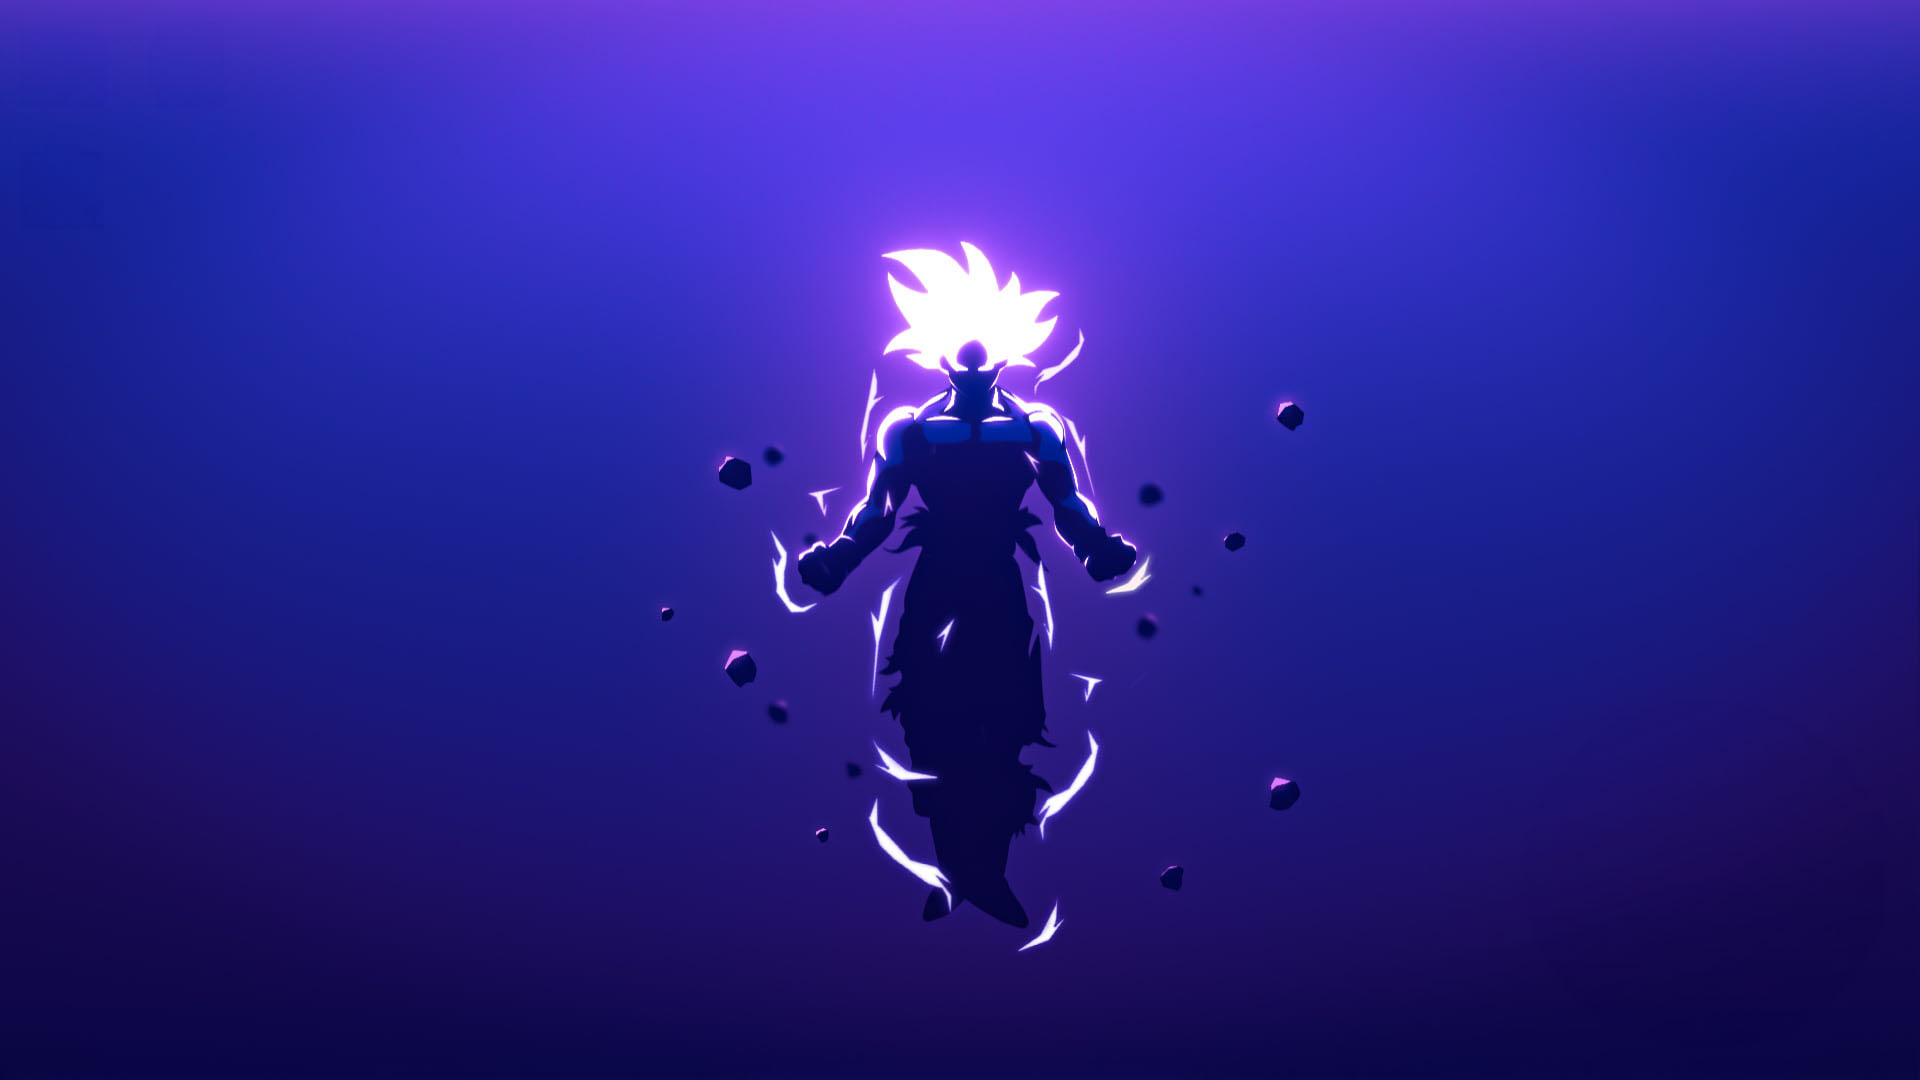
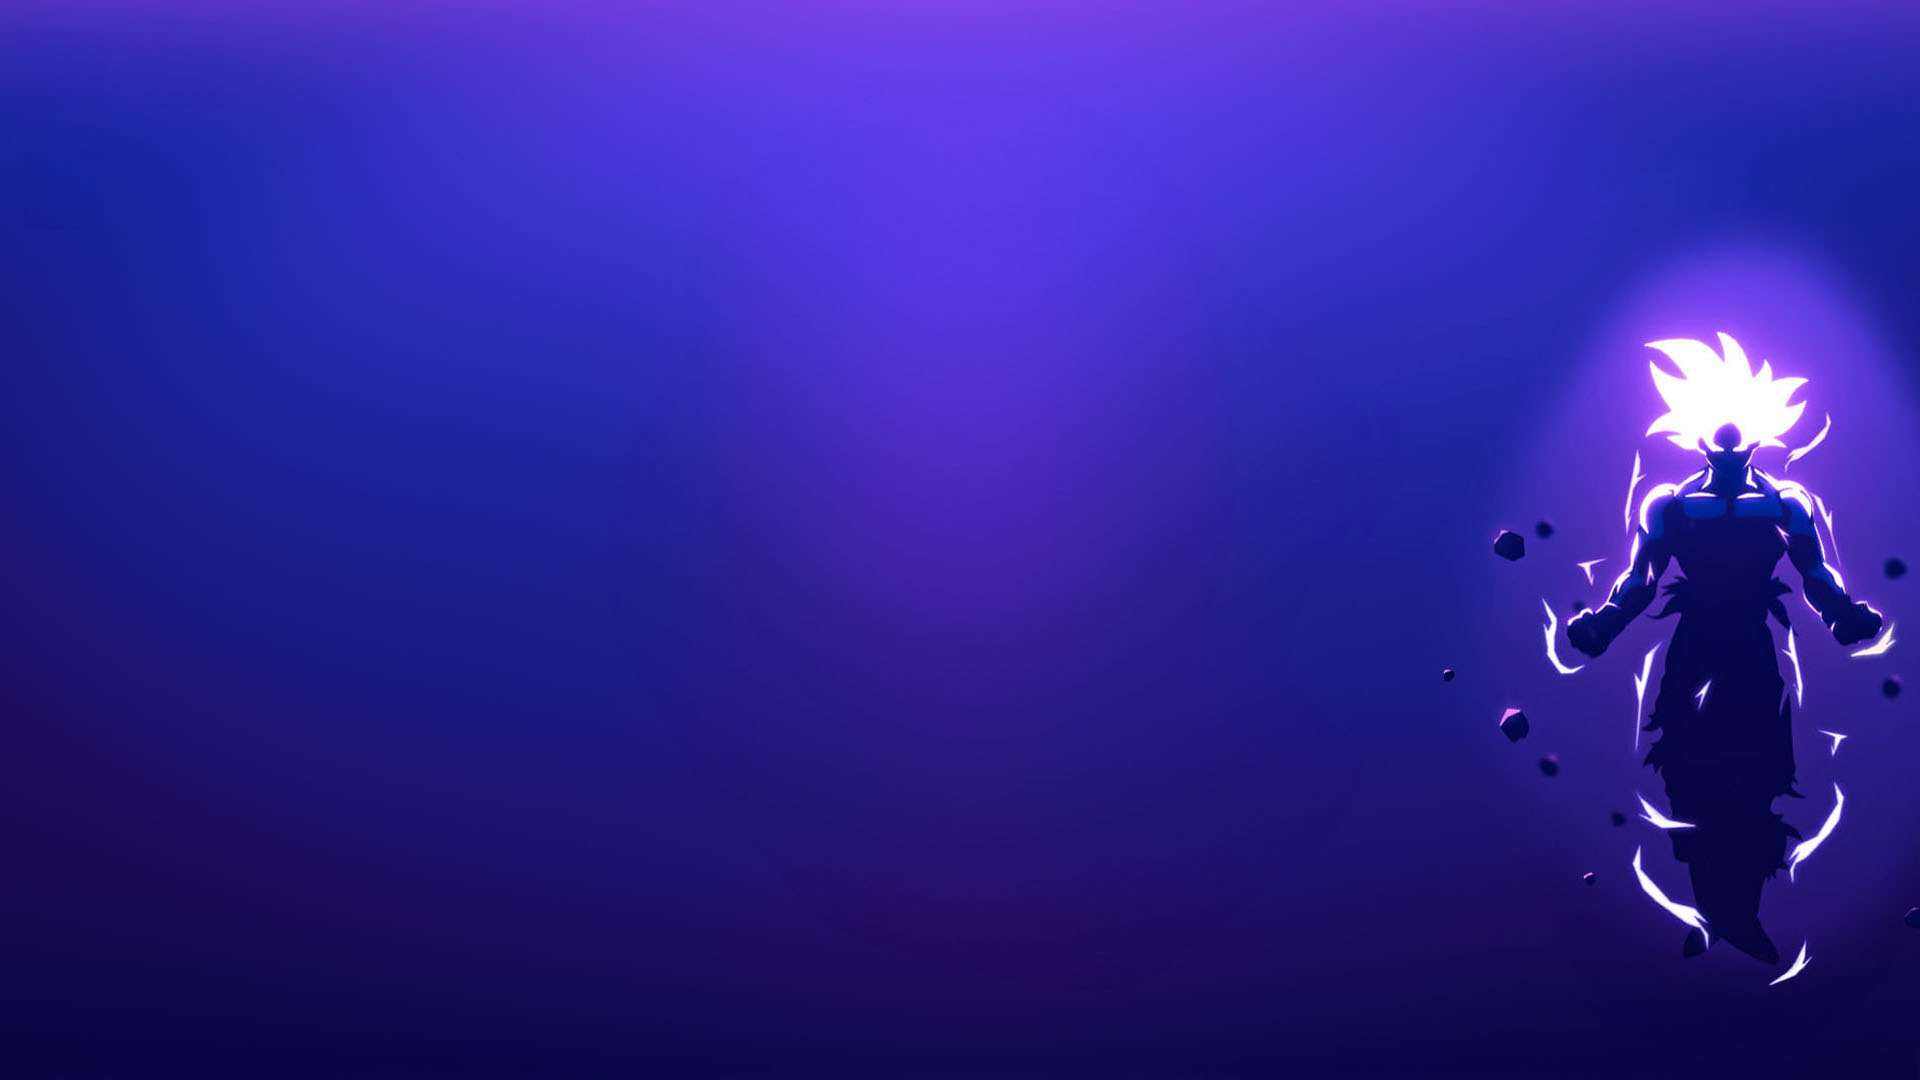
html and CSS final changes
In this commit I made minor changes to the html file and finish the coding for the CSS file

diff --git a/css/main.css b/css/main.css
@@ -1,6 +1,6 @@
-* {
+/* * {
     outline: 1px red solid;
-}
+} */
 
 .hidden {
     display: none;
@@ -16,12 +16,12 @@ body {
     font-family: "Poppins", sans-serif;
     color: white;
     font-size: 14px;
-    background-color: rgb(116, 84, 136);
+    background-color: rgba(116, 84, 136, 80%);
     background-image: url('../img/bg_dragonball.jpg');
     background-blend-mode: multiply;
     background-repeat: no-repeat;
     background-size: cover;
-    background-position: center;
+    background-position: right;
 }
 
 header {
@@ -31,17 +31,27 @@ header {
     text-align: center;
     background-image: url('../img/denim.png');
     background-blend-mode: color-dodge;
-    text-shadow: 0px 3px 5px rgba(0, 0, 0, 40%);
+    text-shadow: 0px 2px 5px rgba(0, 0, 0, 75%);
     box-shadow: 0 0 14px 0 black;
+    border-bottom: 3px solid #fff;
 }
 
 header p {
     margin: 20px 80px 36px;
+    font-family: "Poppins", sans-serif;
+    font-weight: 500;
+    font-size: 16px;
+    font-style: normal;
 }
 
 #main-logo {
     width: 380px;
-    margin: 35px auto 22px;
+    margin: 40px auto 30px;
+    animation: float 3.5s ease-out infinite;
+}
+
+@keyframes float {
+    50% {transform: translateY(8px);}
 }
 
 #listblock {
@@ -50,18 +60,71 @@ header p {
     flex-wrap: wrap;
 }
 
-#listblock section {
-    margin: 15px 10px;
+#todo {
+    margin: 35px 10px 0;
+    width: 320px;
+    background-color: rgb(209, 122, 0);
+    background-image: url('../img/denim.png');
+    background-blend-mode: color-dodge;
+    text-shadow: 0px 2px 5px rgba(0, 0, 0, 75%);
+    box-shadow: 0 0 14px 0 black;
+    border: 3px solid #fff;
+    border-radius: 10px;
 }
 
+#inprogress {
+    margin: 35px 10px 0;
+    width: 320px;
+    background-color: rgba(209, 77, 0);
+    background-image: url('../img/denim.png');
+    background-blend-mode: color-dodge;
+    text-shadow: 0px 2px 5px rgba(0, 0, 0, 75%);
+    box-shadow: 0 0 14px 0 black;
+    border: 3px solid #fff;
+    border-radius: 10px;
+}
+
+#done {
+    margin: 35px 10px 0;
+    width: 320px;
+    background-color: rgb(209, 21, 0);
+    background-image: url('../img/denim.png');
+    background-blend-mode: color-dodge;
+    text-shadow: 0px 2px 5px rgba(0, 0, 0, 75%);
+    box-shadow: 0 0 14px 0 black;
+    border: 3px solid #fff;
+    border-radius: 10px;
+}
+
+#inprogress h2, #done h2 {
+    margin: 18px 24px 10px;
+}
+
+.inprogress li, .done li {
+    width: 280px;
+    margin: 0 -40px 0;
+    padding: 0 20px;
+    overflow: hidden;
+}
+
+#todo h2 {
+    margin: 18px 24px 10px;
+}
 
 #todo h2::after {
     content: "✨";
     margin-left: 5px;
 }
 
+.todo li {
+    width: 280px;
+    margin: 0 -40px 0;
+    padding: 0 20px;
+    overflow: hidden;
+}
+
 #inprogress h2::after {
-    content: "🏅";
+    content: "🥇";
     margin-left: 5px;
 }
 
@@ -70,7 +133,65 @@ header p {
     margin-left: 5px;
 }
 
-input[type="checkbox"]:checked + span::after {
+.inprogress input[type="checkbox"]:checked + span::after {
     content: "💪";
     margin-left: 5px;
+    background-color: rgb(196, 0, 0);
+    border-radius: 30%;
+    animation: fadeIn 0.5s;
+}
+
+@keyframes fadeIn {
+    from {opacity: 0}
+    to {opacity: 1}
+}
+
+.done input[type="checkbox"]:checked + span::after {
+    content: "🏅";
+    margin-left: 5px;
+    background-color: rgb(82, 0, 183);
+    border-radius: 30%;
+    animation: fadeIn 0.5s;
+}
+
+.todo li:nth-child(odd) {
+
+    background-color: rgba(255, 154, 11, .9);
+}
+
+.inprogress li:nth-child(odd) {
+    background-color: rgba(209, 77, 0, .5);
+}
+
+.done li:nth-child(odd) {
+    background-color: rgba(209, 21, 0, .5);
+}
+
+section:last-child {
+    margin-top: 50px;
+}
+
+section h3 {
+    font-size: 20px;
+    text-align: center;
+    margin-bottom: 20px;
+}
+
+section p {
+    font-size: 14px;
+    line-height: 26px;
+    text-align: center;
+    padding: 0 80px;
+}
+
+footer {
+    color: white;
+    text-align: center;
+    padding: 7px 0 12px;
+}
+
+.sticky_footer {
+    position: sticky;
+    top:100%;
+    background-color: #080012;
 }

diff --git a/index.html b/index.html
@@ -11,7 +11,7 @@
 </head>
 
 <body>
-    <header>       
+    <header>    
         <img id="main-logo" src="img//logo_dragonball.png" alt="Dragon Ball Logo">
         <h1 id="tittle">Training for the Tournament: Goku's Kamehameha</h1>
         <p>
@@ -21,6 +21,7 @@
     
     <main>
         <section id="listblock">
+            <h2 class="hidden">List of tasks</h2>
             <section id="todo">
                 <h2>To-Dos</h2>
                 <ul class="todo">
@@ -87,12 +88,13 @@
 
         <section>
             <h3>Ready to Kamehameha the Competition!</h3>
-            <p>You've trained hard, mastered the basics, and unlocked your true potential!  The "Done" list is your trophy case, showcasing your dedication. But remember, even the greatest warriors never stop training.  Keep striving to conquer the "In Progress" tasks, and the next challenge won't stand a chance!    Now go out there and Kamehameha your goals!</p>
+            <p>You've trained hard, mastered the basics, and unlocked your true potential! but remember, even the greatest warriors never stop training.</p>
+            <p>Now go out there and Kamehameha your goals!</p>
         </section>
     </main>
 
     <footer class="sticky_footer">
-        <h3>All images &copy; Marvel</h3>
+        <h3>&copy; Akira Toriyama/Shueisha, Toei Animation</h3>
     </footer>
 
 </body>
